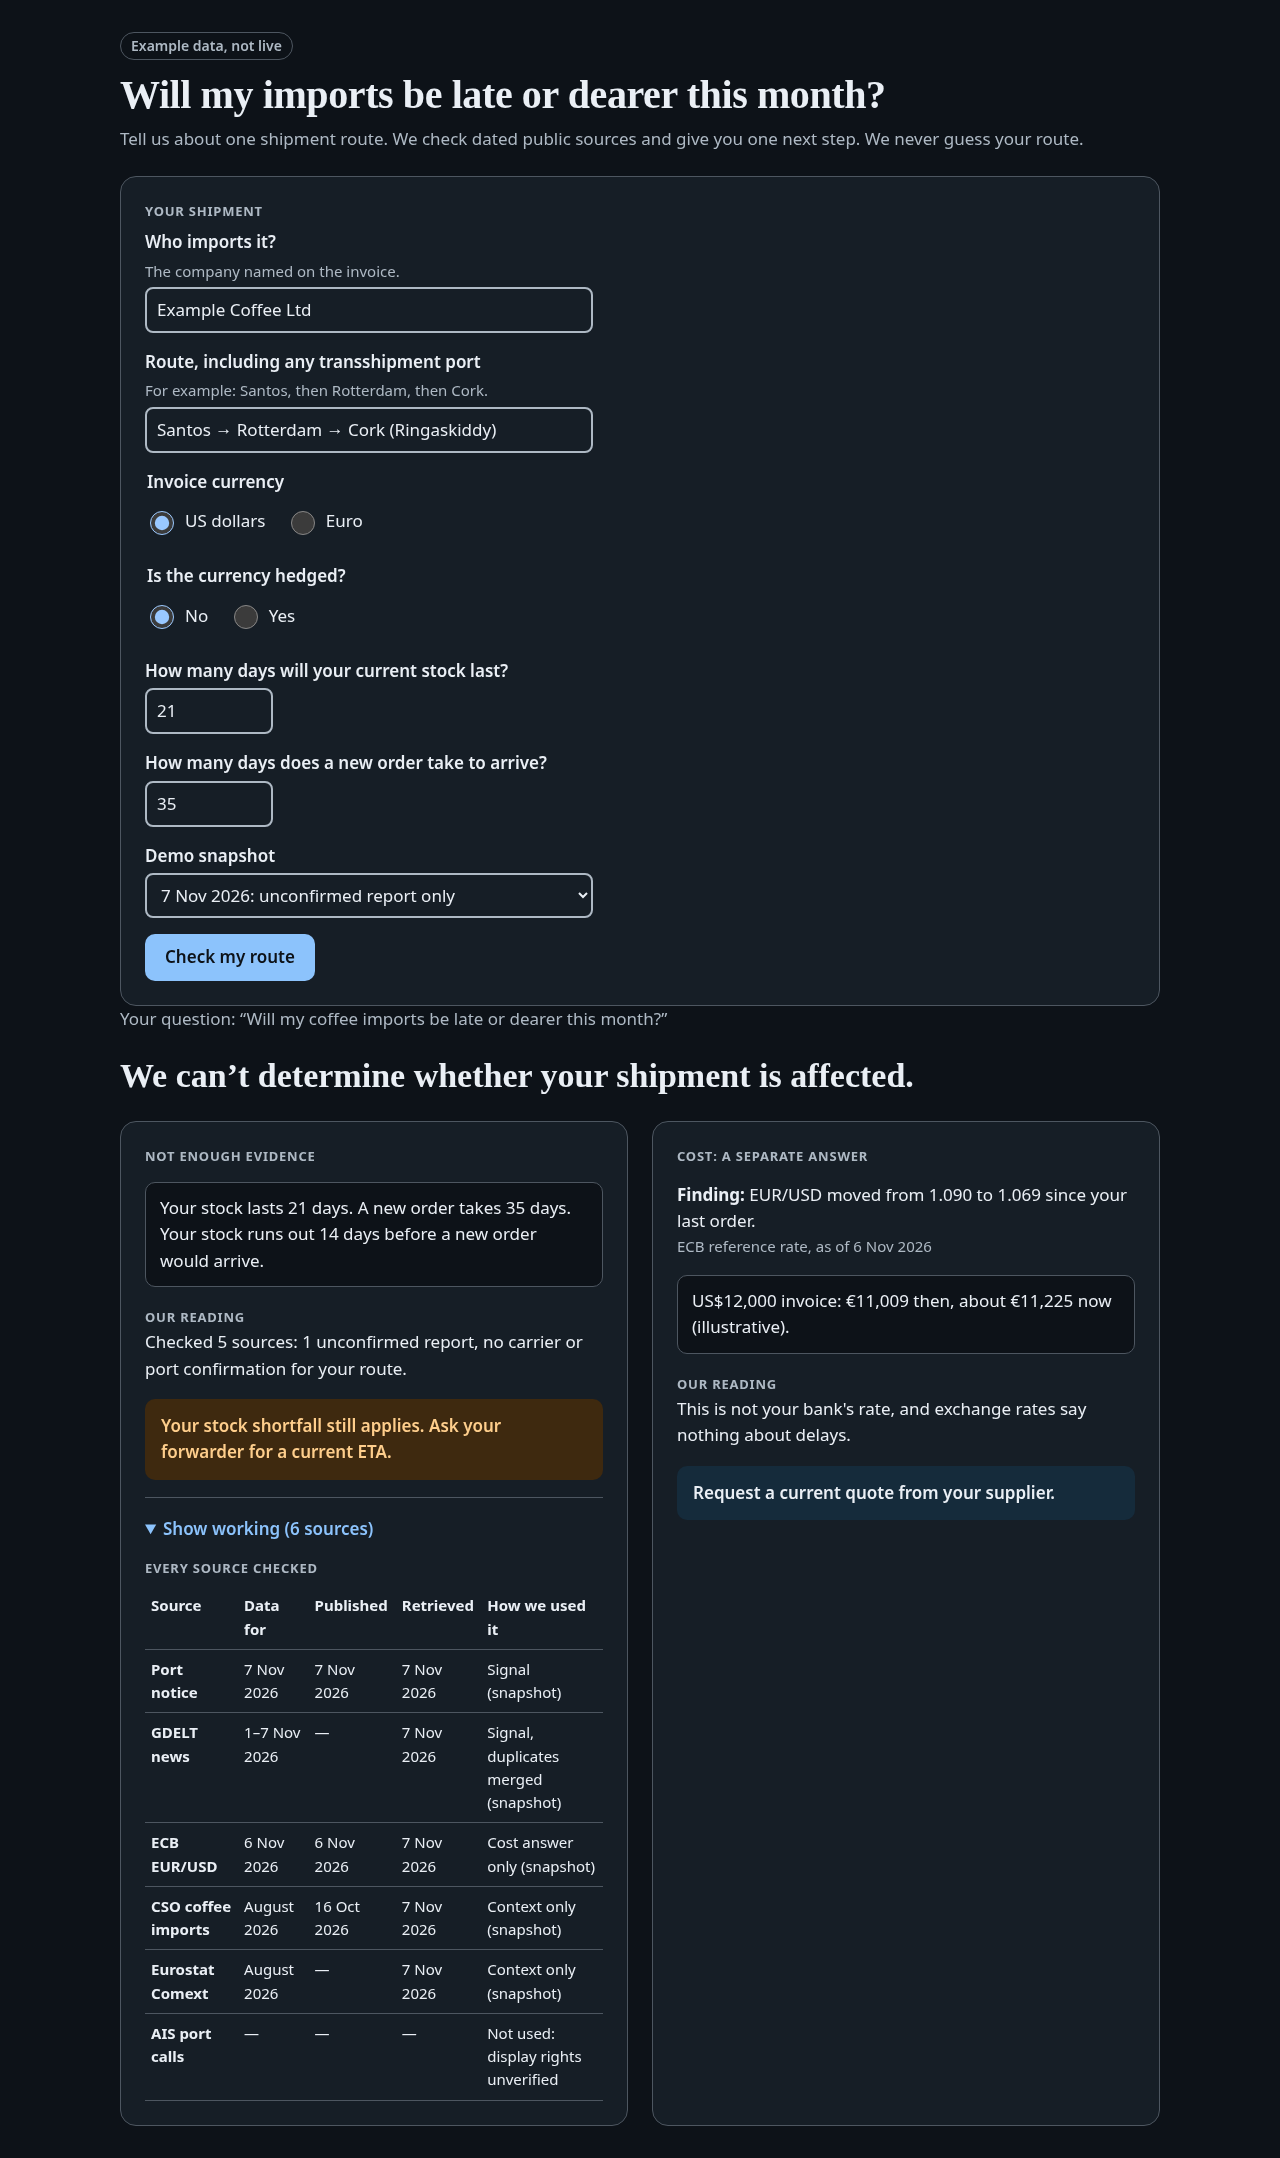
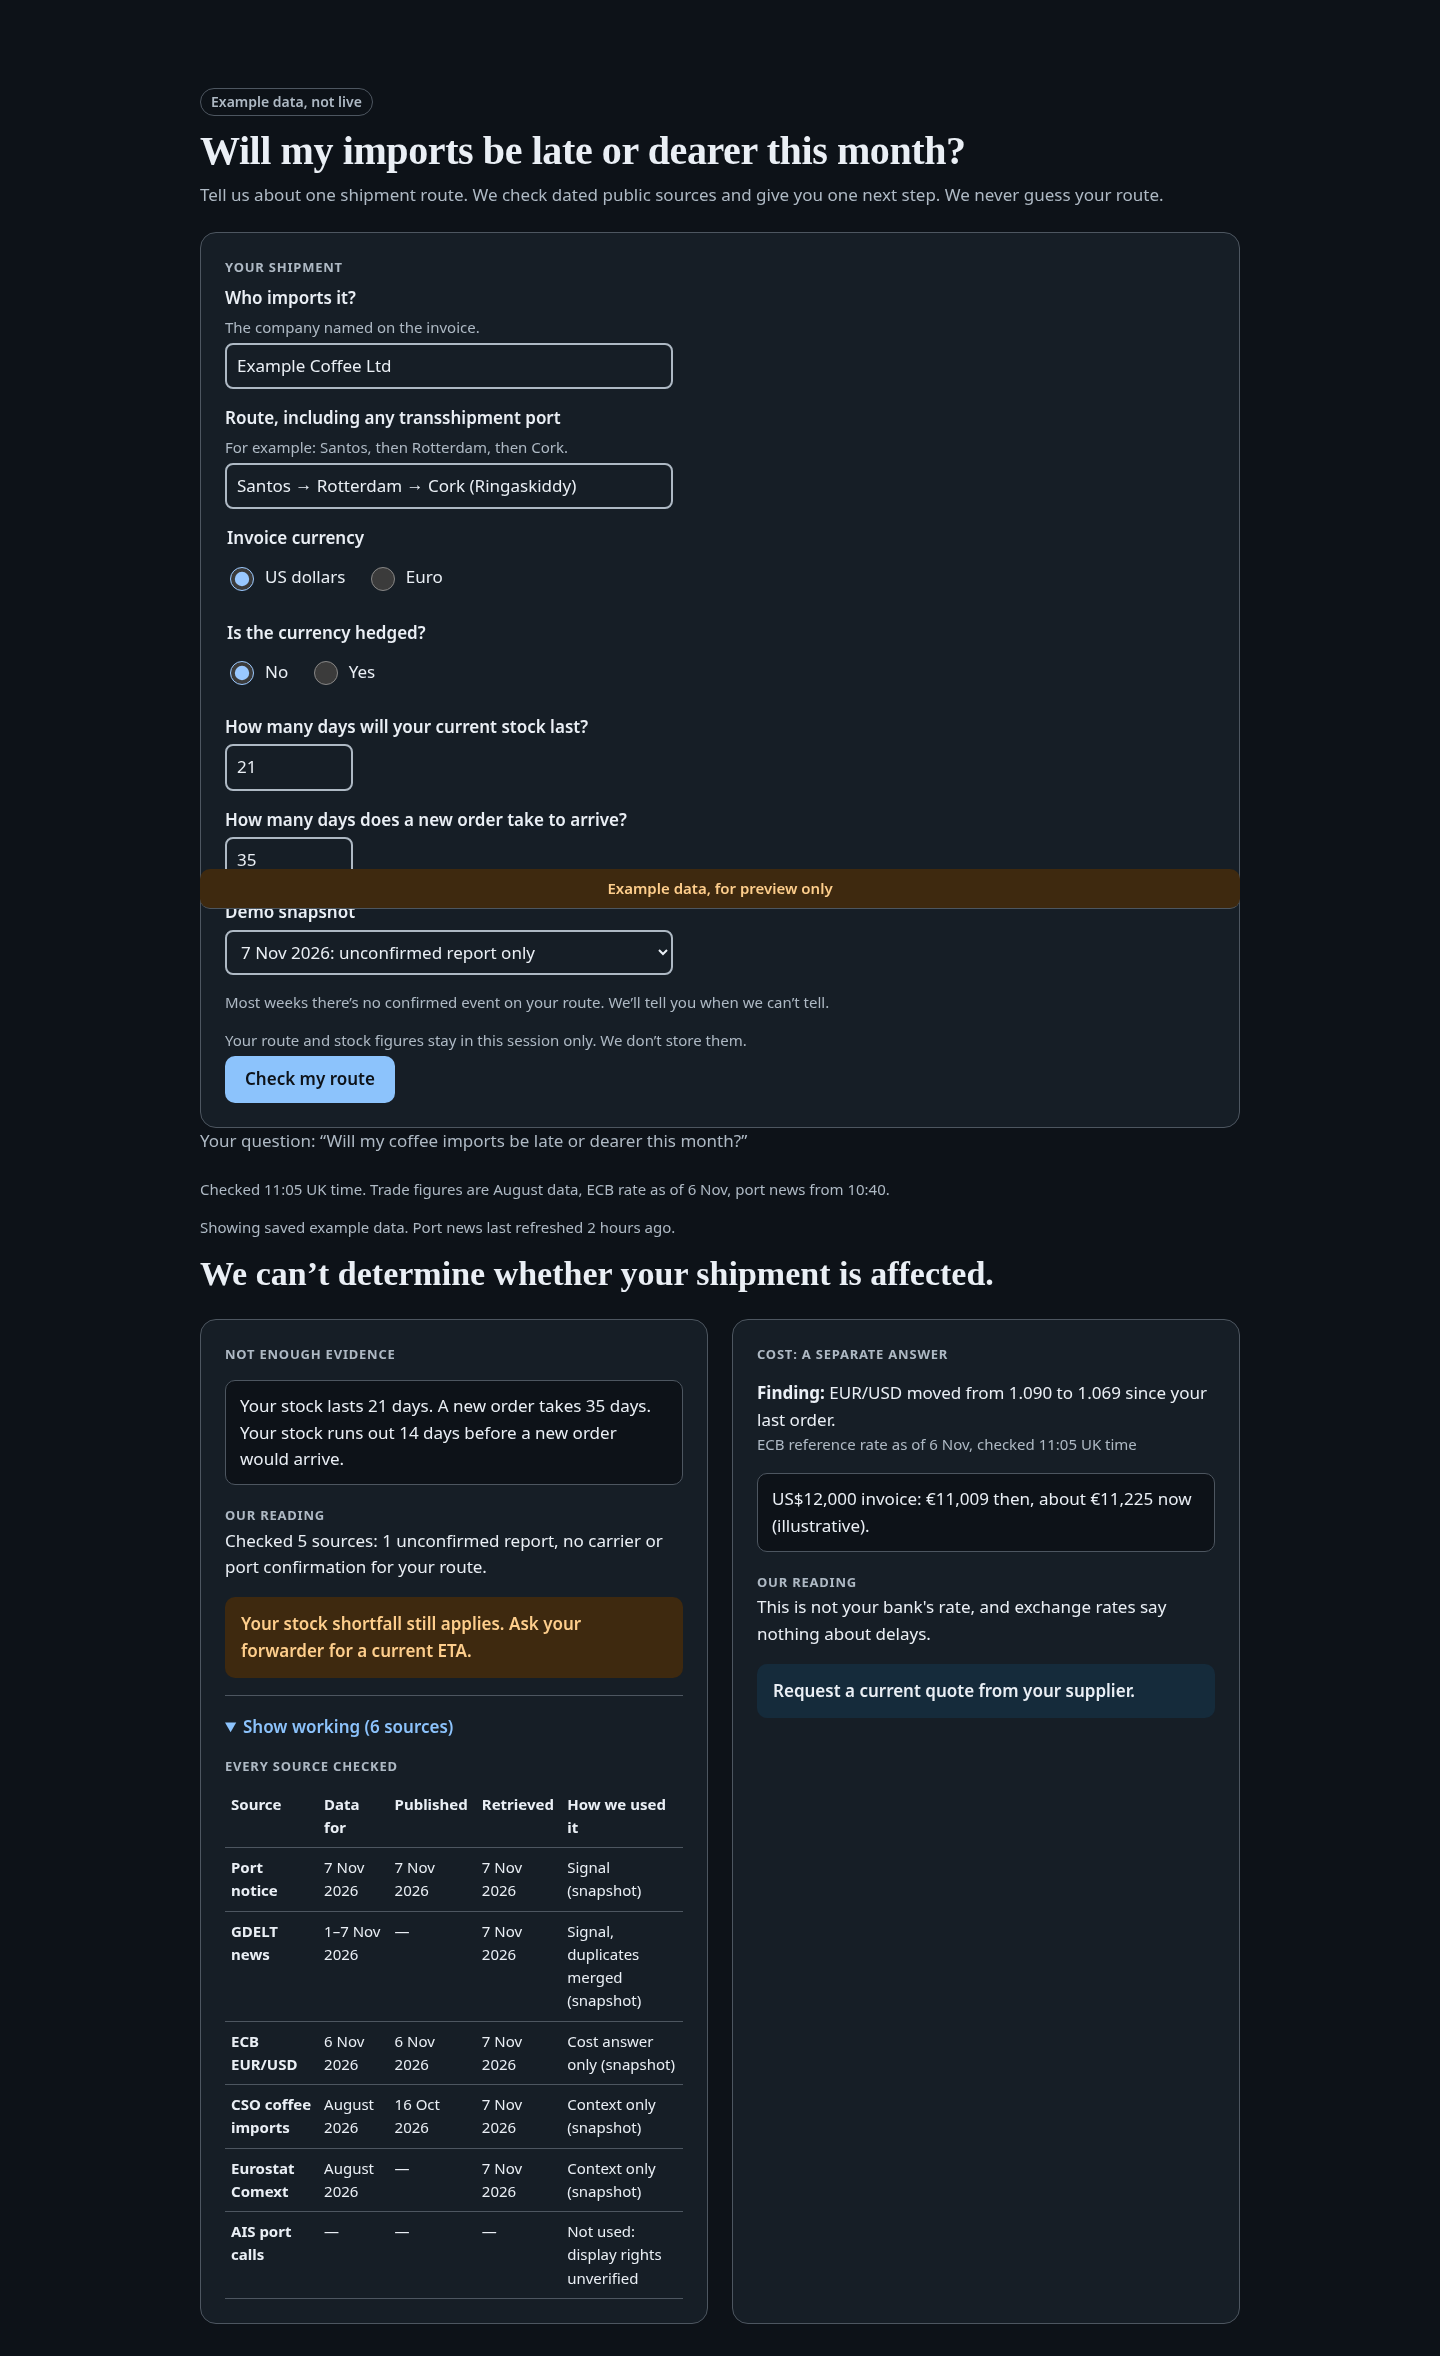
feat(web): live/fallback freshness, privacy and copy updates; stacked phone table

Changed region(s): [[0.0938, 0.0, 0.875, 0.9935], [0.8438, 0.683, 0.9062, 0.7141], [0.4375, 0.1242, 0.4688, 0.1552]]

diff --git a/web/app.js b/web/app.js
@@ -42,6 +42,8 @@
   function render(ans, stock, lead) {
     $("mode").textContent = ans.example ? "Example data, not live" : "Snapshot data";
     $("answer-q").textContent = "Your question: \u201c" + ans.question + "\u201d";
+    $("freshness").textContent = ans.freshness || "";
+    $("staleness").textContent = ans.staleness || ""; $("staleness").hidden = !(ans.mode === "fallback" && ans.staleness);
     var exp = exposureText(stock, lead);
     var headline = ans.state === "alert"
       ? (exp.short ? "Check your forwarder\u2019s ETA today: your stock runs out " + (lead - stock) + " days before a new order would arrive." : "Check your forwarder\u2019s ETA today.")
@@ -51,7 +53,7 @@
     var ol = $("delay-findings"); ol.replaceChildren();
     ans.delay.findings.forEach(function (f) {
       var li = el("li"); li.append(el("strong", "Finding: "), document.createTextNode(f.text));
-      li.append(el("span", f.source + ", as of " + f.as_of + (f.note ? " \u00b7 " + f.note : ""), "src")); ol.append(li);
+      li.append(el("span", f.source + " as of " + (f.source_updated_at || f.as_of) + (f.checked_at ? ", checked " + f.checked_at : "") + (f.note ? " \u00b7 " + f.note : ""), "src")); ol.append(li);
     });
     ol.hidden = !ans.delay.findings.length;
     $("exposure").textContent = exp.text;
@@ -64,13 +66,14 @@
     var tb = $("sources"); tb.replaceChildren();
     ans.sources.forEach(function (s) {
       var tr = el("tr"); var th = el("th", s.name); th.scope = "row"; tr.append(th);
-      [s.reference_period, s.published_at, s.retrieved_at, s.use + (s.status === "snapshot" ? " (snapshot)" : "")].forEach(function (v) { tr.append(el("td", v)); });
+      var heads = ["Data for", "Published", "Retrieved", "How we used it"];
+      [s.reference_period, s.published_at, s.retrieved_at, s.use + (s.status === "snapshot" ? " (snapshot)" : "")].forEach(function (v, i) { var td = el("td", v); td.setAttribute("data-label", heads[i]); tr.append(td); });
       tb.append(tr);
     });
     $("working-summary").textContent = "Show working (" + ans.sources.length + " sources)";
     var fx = ans.fx;
     $("fx-finding").textContent = fx.finding;
-    $("fx-src").textContent = fx.source + ", as of " + fx.as_of;
+    $("fx-src").textContent = fx.source + " as of " + (fx.source_updated_at || fx.as_of) + (fx.checked_at ? ", checked " + fx.checked_at : "");
     $("fx-calc").textContent = usd.format(fx.invoice_usd) + " invoice: " + eur.format(fx.eur_before) + " then, about " + eur.format(fx.eur_now) + " now (illustrative).";
     $("fx-reading").textContent = fx.reading;
     $("fx-action").textContent = fx.action;

diff --git a/web/index.html b/web/index.html
@@ -9,6 +9,7 @@
 <body>
 <a class="skip" href="#main">Skip to content</a>
 <main id="main">
+<p class="preview-banner" role="note">Example data, for preview only</p>
 <span class="tag" id="mode">Example data, not live</span>
 <h1 id="page-title">Will my imports be late or dearer this month?</h1>
 <p class="q">Tell us about one shipment route. We check dated public sources and give you one next step. We never guess your route.</p>
@@ -39,11 +40,14 @@
     <input id="lead_time_days" name="lead_time_days" type="number" inputmode="numeric" min="0" aria-describedby="lead_time_days-error" value="35"></div>
   <div class="field"><label for="scenario">Demo snapshot</label>
     <select id="scenario" name="scenario"><option value="alert">7 Nov 2026: confirmed event on route</option><option value="insufficient">7 Nov 2026: unconfirmed report only</option></select></div>
+  <p class="hint" id="expect-note">Most weeks there’s no confirmed event on your route. We’ll tell you when we can’t tell.</p>
+  <p class="hint" id="privacy-note">Your route and stock figures stay in this session only. We don’t store them.</p>
   <button type="submit">Check my route</button>
 </form>
 
 <section id="result" aria-labelledby="answer" tabindex="-1" hidden>
   <p class="q" id="answer-q"></p>
+  <p class="src" id="freshness"></p><p class="src" id="staleness" hidden></p>
   <h2 id="answer" style="font:600 clamp(24px,3.4vw,34px)/1.2 var(--serif);margin:0 0 var(--s4)"></h2>
   <div class="two">
     <section class="card stack" aria-labelledby="delay-h">

diff --git a/web/styles.css b/web/styles.css
@@ -39,3 +39,7 @@ button{font:inherit;font-weight:600;min-height:44px;padding:10px 20px;border-rad
 [aria-invalid=true]{border-color:var(--error)}
 [hidden]{display:none!important}
 @media (prefers-reduced-motion:no-preference){html{scroll-behavior:smooth}}
+.preview-banner{position:sticky;top:0;z-index:5;margin:0 0 16px;border-radius:10px;background:var(--warn-bg);color:var(--warn);font-weight:600;font-size:15px;text-align:center;padding:8px 16px;border-bottom:1px solid var(--line)}
+@media (max-width:599px){table,thead,tbody,tr,th,td{display:block}thead{position:absolute;width:1px;height:1px;overflow:hidden;clip:rect(0 0 0 0)}
+tbody tr{border-bottom:1px solid var(--line);padding:10px 0}tbody th,tbody td{border:0;padding:2px 0}tbody th{font-weight:700}
+tbody td::before{content:attr(data-label) ": ";font-weight:600;color:var(--muted)}.tablewrap{overflow:visible}}
